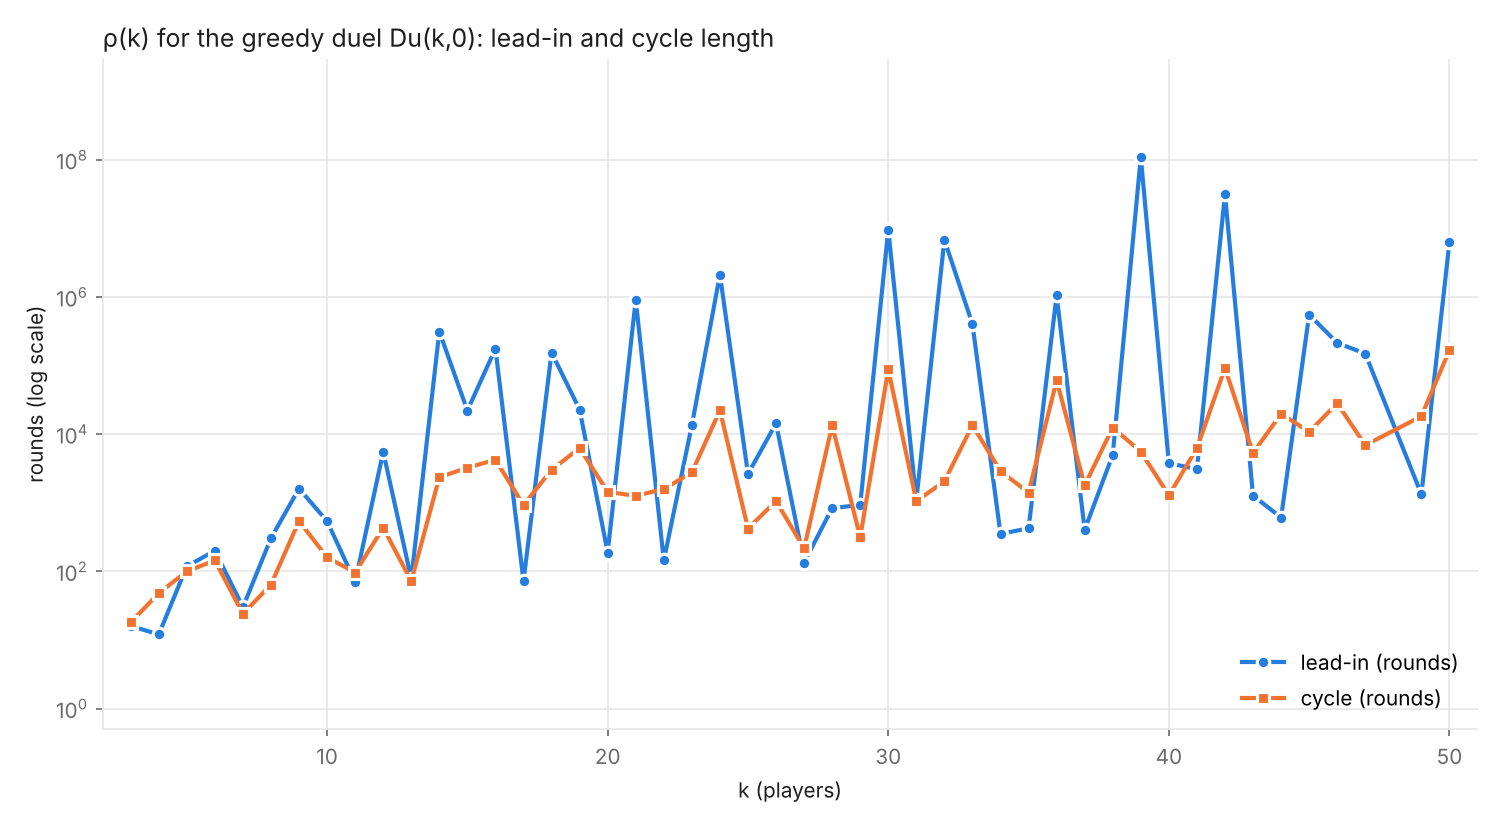
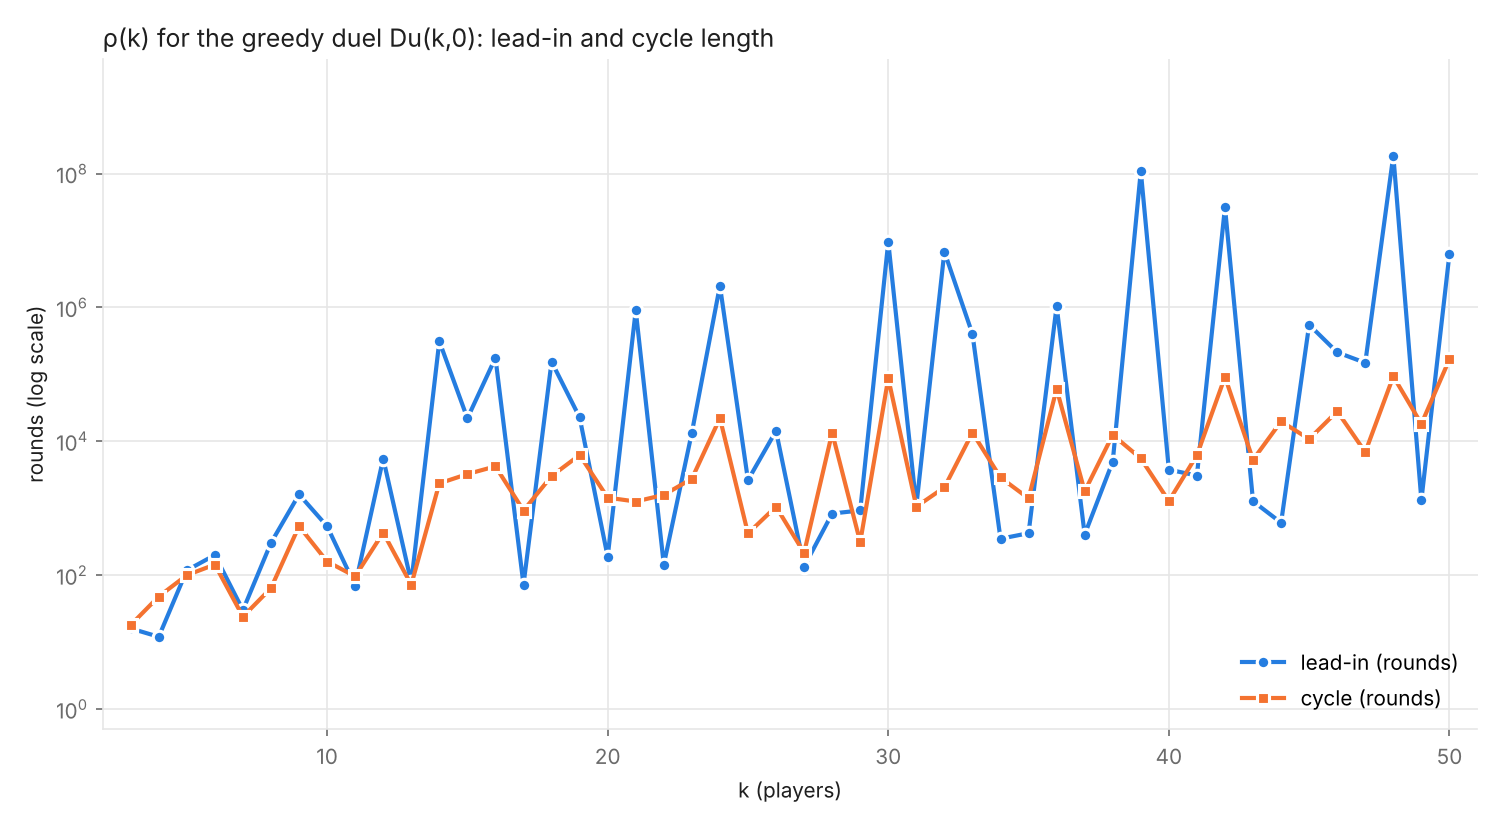
All k=3..50 settled by certificate; k=48 = (8945831100, 4478976) after 33 false loops
84 false loops found and jumped over in total (false_loops column). All other k
unchanged from the previous run, now each with a permanence proof.

Claude-Session: https://claude.ai/code/session_01HcZ87u1C7N7K594u1YXShF

diff --git a/README.md b/README.md
@@ -16,15 +16,17 @@ k players, vectors c of length J=8. The lexicographically smallest c picks next
 - Periodicity: KMP prefix function over the reversed sequence of rounds finds the
   longest periodic tail, then the exact pick-level lambda (smallest divisor of the
   round period that works) and mu (backward scan).
-- A checkpoint proposes a candidate when the tail is at least 5 lambda long. The
-  candidate is then verified pick by pick against its first cycle. It is accepted
-  only when the tail after mu reaches max(10 (mu + lambda), 1000 lambda) picks
-  (`repeats_seen` in results.csv). A mismatch prints BREAK and analysis resumes at
-  the next checkpoint. Short-tail candidates do break: k=16 (486295, 22528) breaks
-  at pick 2188192 after 75 repeats and k=24 (607570, 25344) at pick 9091779 after
-  334, both confirmed against the pure-Python reference.
-- Verification reads only the first cycle, so it runs past the stored prefix
-  (`--store`, about 1.1 bytes per pick per running k) up to `--cap` with no extra memory.
+- Settle rule: a checkpoint proposes a candidate when the tail is at least 5 lambda
+  long, and the candidate is settled only when `certify.py` proves it permanent.
+  Repeat counts are no proof: k=39's (1002830, 216216) held 19668 repeats before
+  breaking. `repeats_seen` (engine repeats at detection) is a diagnostic only.
+- Jump-ahead: when the certificate predicts a break, it also gives the exact state at
+  the start of the break round (closed form below). The engine resumes there with
+  the picks just before it as a prefix (so a new loop's mu can start before the jump
+  point), instead of simulating the false loop. `false_loops` in results.csv lists
+  every candidate that broke, with its exact break pick.
+- Width: c[7] grows like e^8 / (8! k); the engine guards it and run.py switches to the
+  320-bit build (`duel320`, `-DL=5`) for runs past about 2e10 picks.
 - Any full tie between two vectors (after round 0, where all start at zero) marks the
   k as `full tie ... (J too small)` and is never reported as settled.
 
@@ -39,19 +41,18 @@ the exact state at its start (dumped by `duel` with STATE_AT).
   every round covers every pick. A pair decided below m is permanent; decided at or
   above m it is permanent if the drift favours the winner, else it flips once the
   gap is used up. All pairs permanent proves the loop never breaks.
-- Checked against every false loop seen so far (k=15, 16, 24, 48: breaks after 13 to
-  618 repeats): the predicted break pick equals the engine's BREAK pick every time.
-- On all settled loops: 46 permanent. k=39 (1002830, 216216) had passed the 1000-repeat
-  rule but the certificate predicted a break after 19668 repeats at pick 4253557401,
-  which the engine confirmed exactly. Its next loop (4253556902, 216216) is certified
-  permanent (engine saw 31202 repeats); results.csv marks it "certified permanent"
-  because the 10 (mu + lambda) rule would need 4.7e10 picks, past 256-bit range.
+- Checked against every false loop seen so far: the predicted break pick equals the
+  engine's BREAK pick every time (k=15, 16, 24, 39, 48), and the jumped-to state equals
+  direct simulation (validate.py).
+- Full run: all k=3..50 settled by certificate. 84 false loops were found and jumped
+  over on the way, 33 of them for k=48, which settles at (8945831100, 4478976) after
+  candidates that broke after 10 to 618 repeats. k=39 settles at (4253556902, 216216).
 
     python3 certify.py 15 30591 8100     # false loop: breaks after about 25 repeats, pick 239670
     python3 certify.py --settled         # every settled k -> certificates.csv
 
 ## Run
-    gcc -O3 -march=native -o duel duel.c
+    gcc -O3 -march=native -o duel duel.c && gcc -O3 -march=native -DL=5 -o duel320 duel.c
     python3 validate.py
-    python3 run.py --cap 2e10 --store 2e9          # all k (k=42 needs about 1.5e10 picks)
-    python3 run.py --only 42,50 --cap 2e10         # recompute some k, merge into results.csv
+    python3 run.py                         # all k, certificate settle rule (about 15 min on 4 cores)
+    python3 run.py --only 39,48            # recompute some k, merge into results.csv
